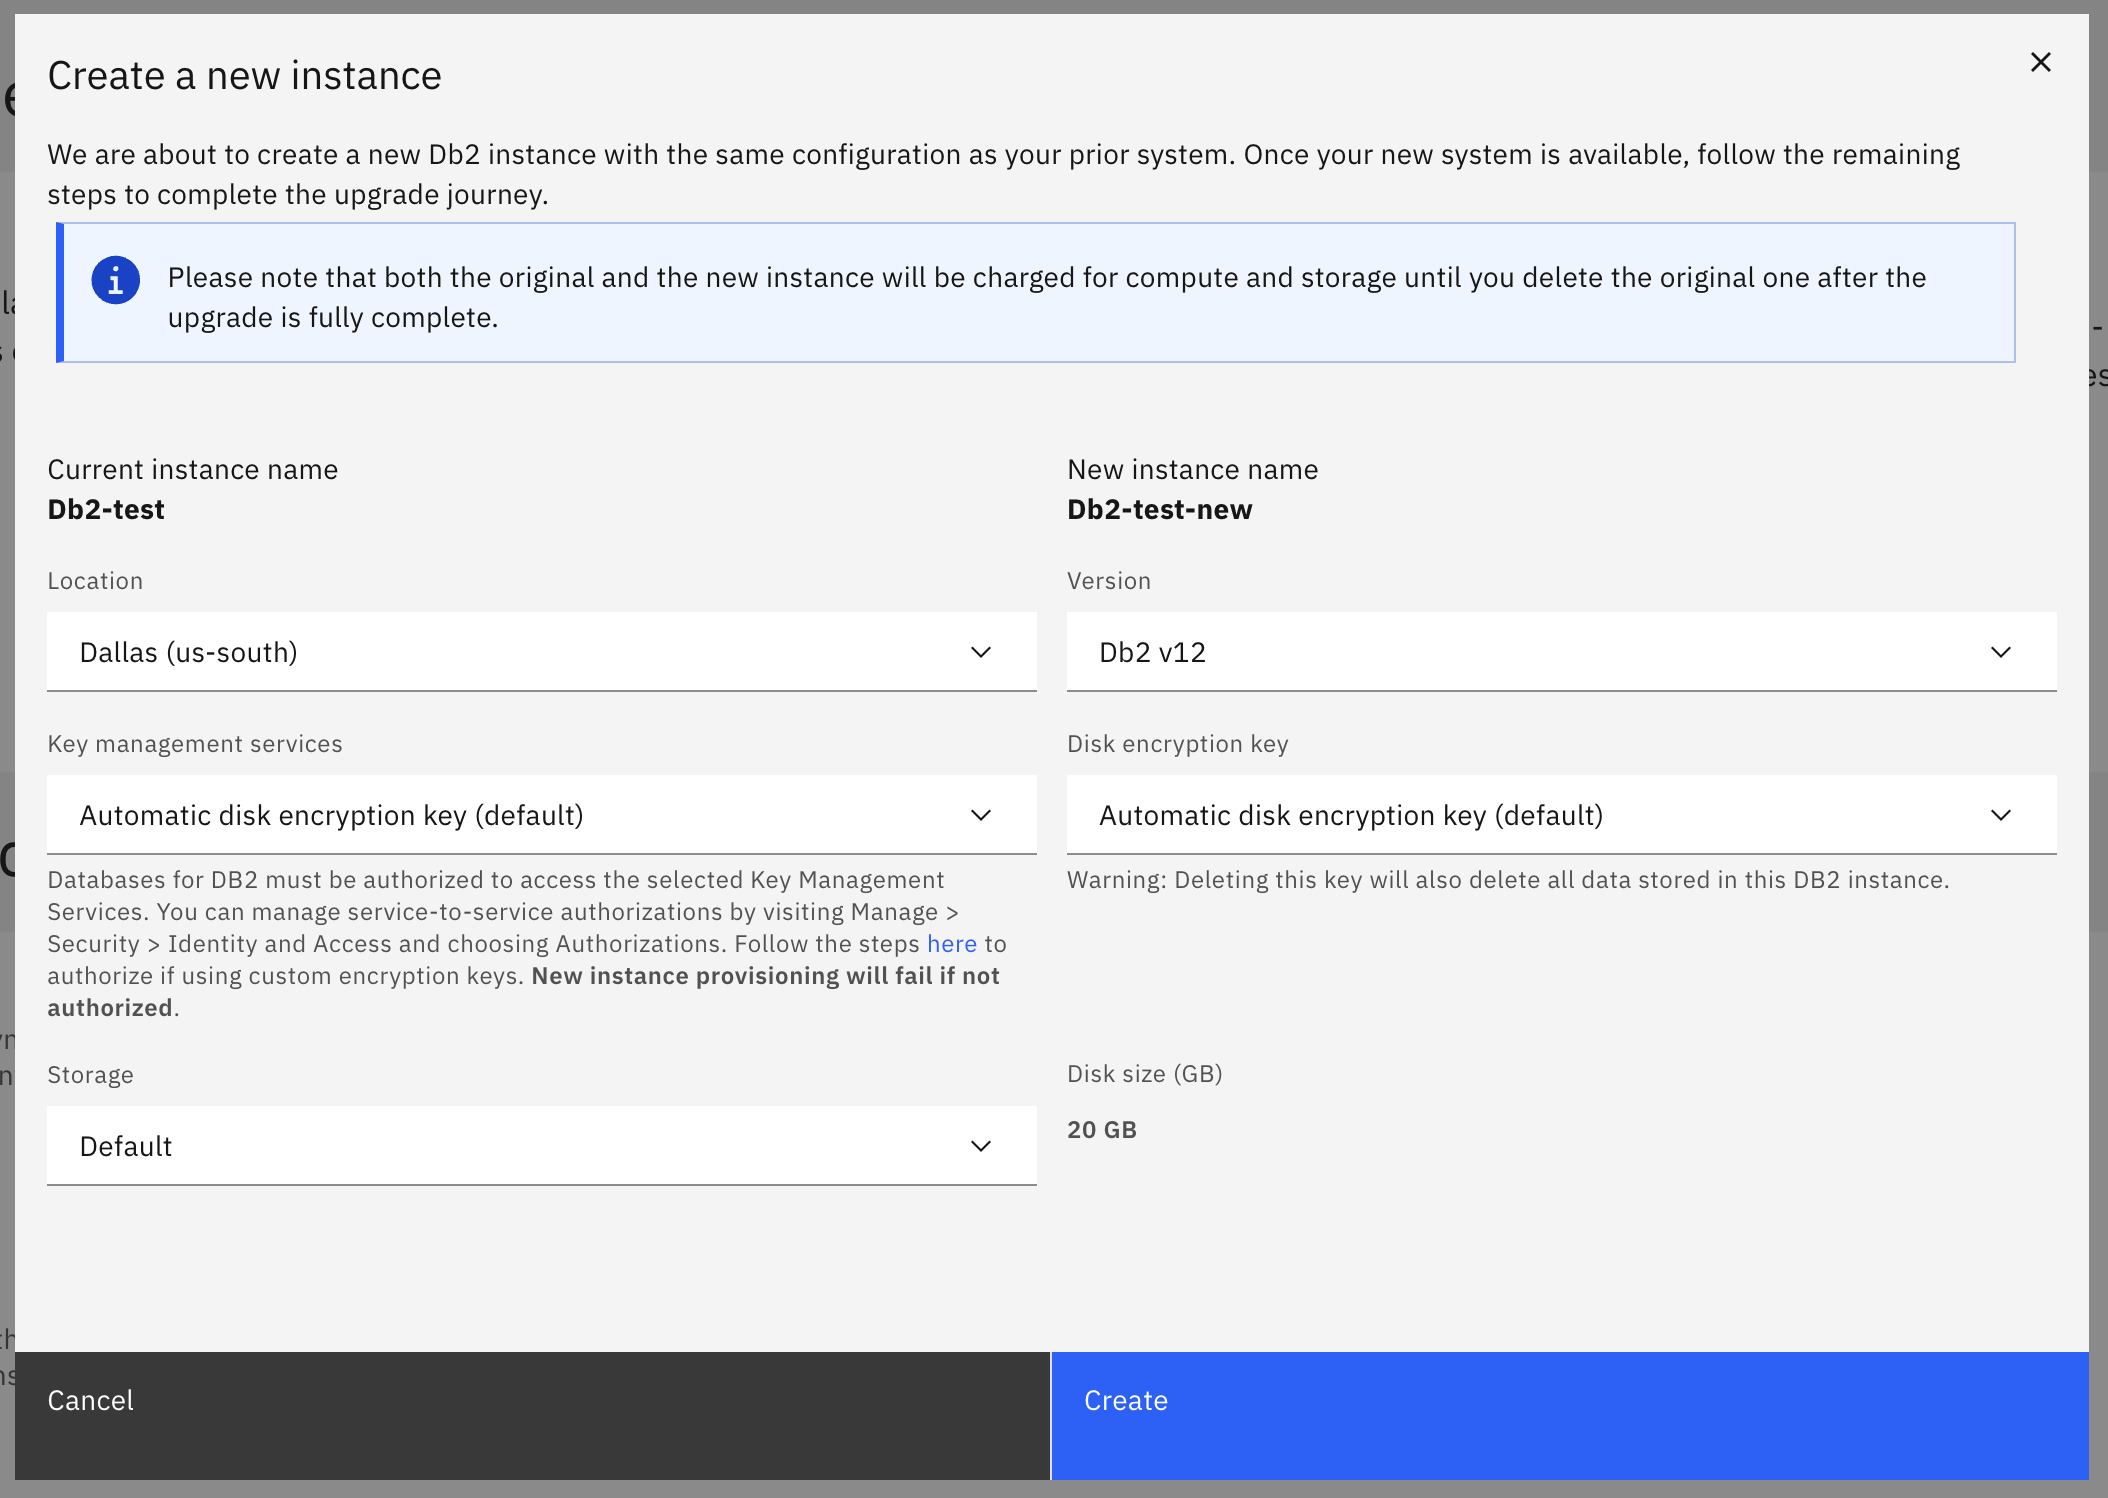
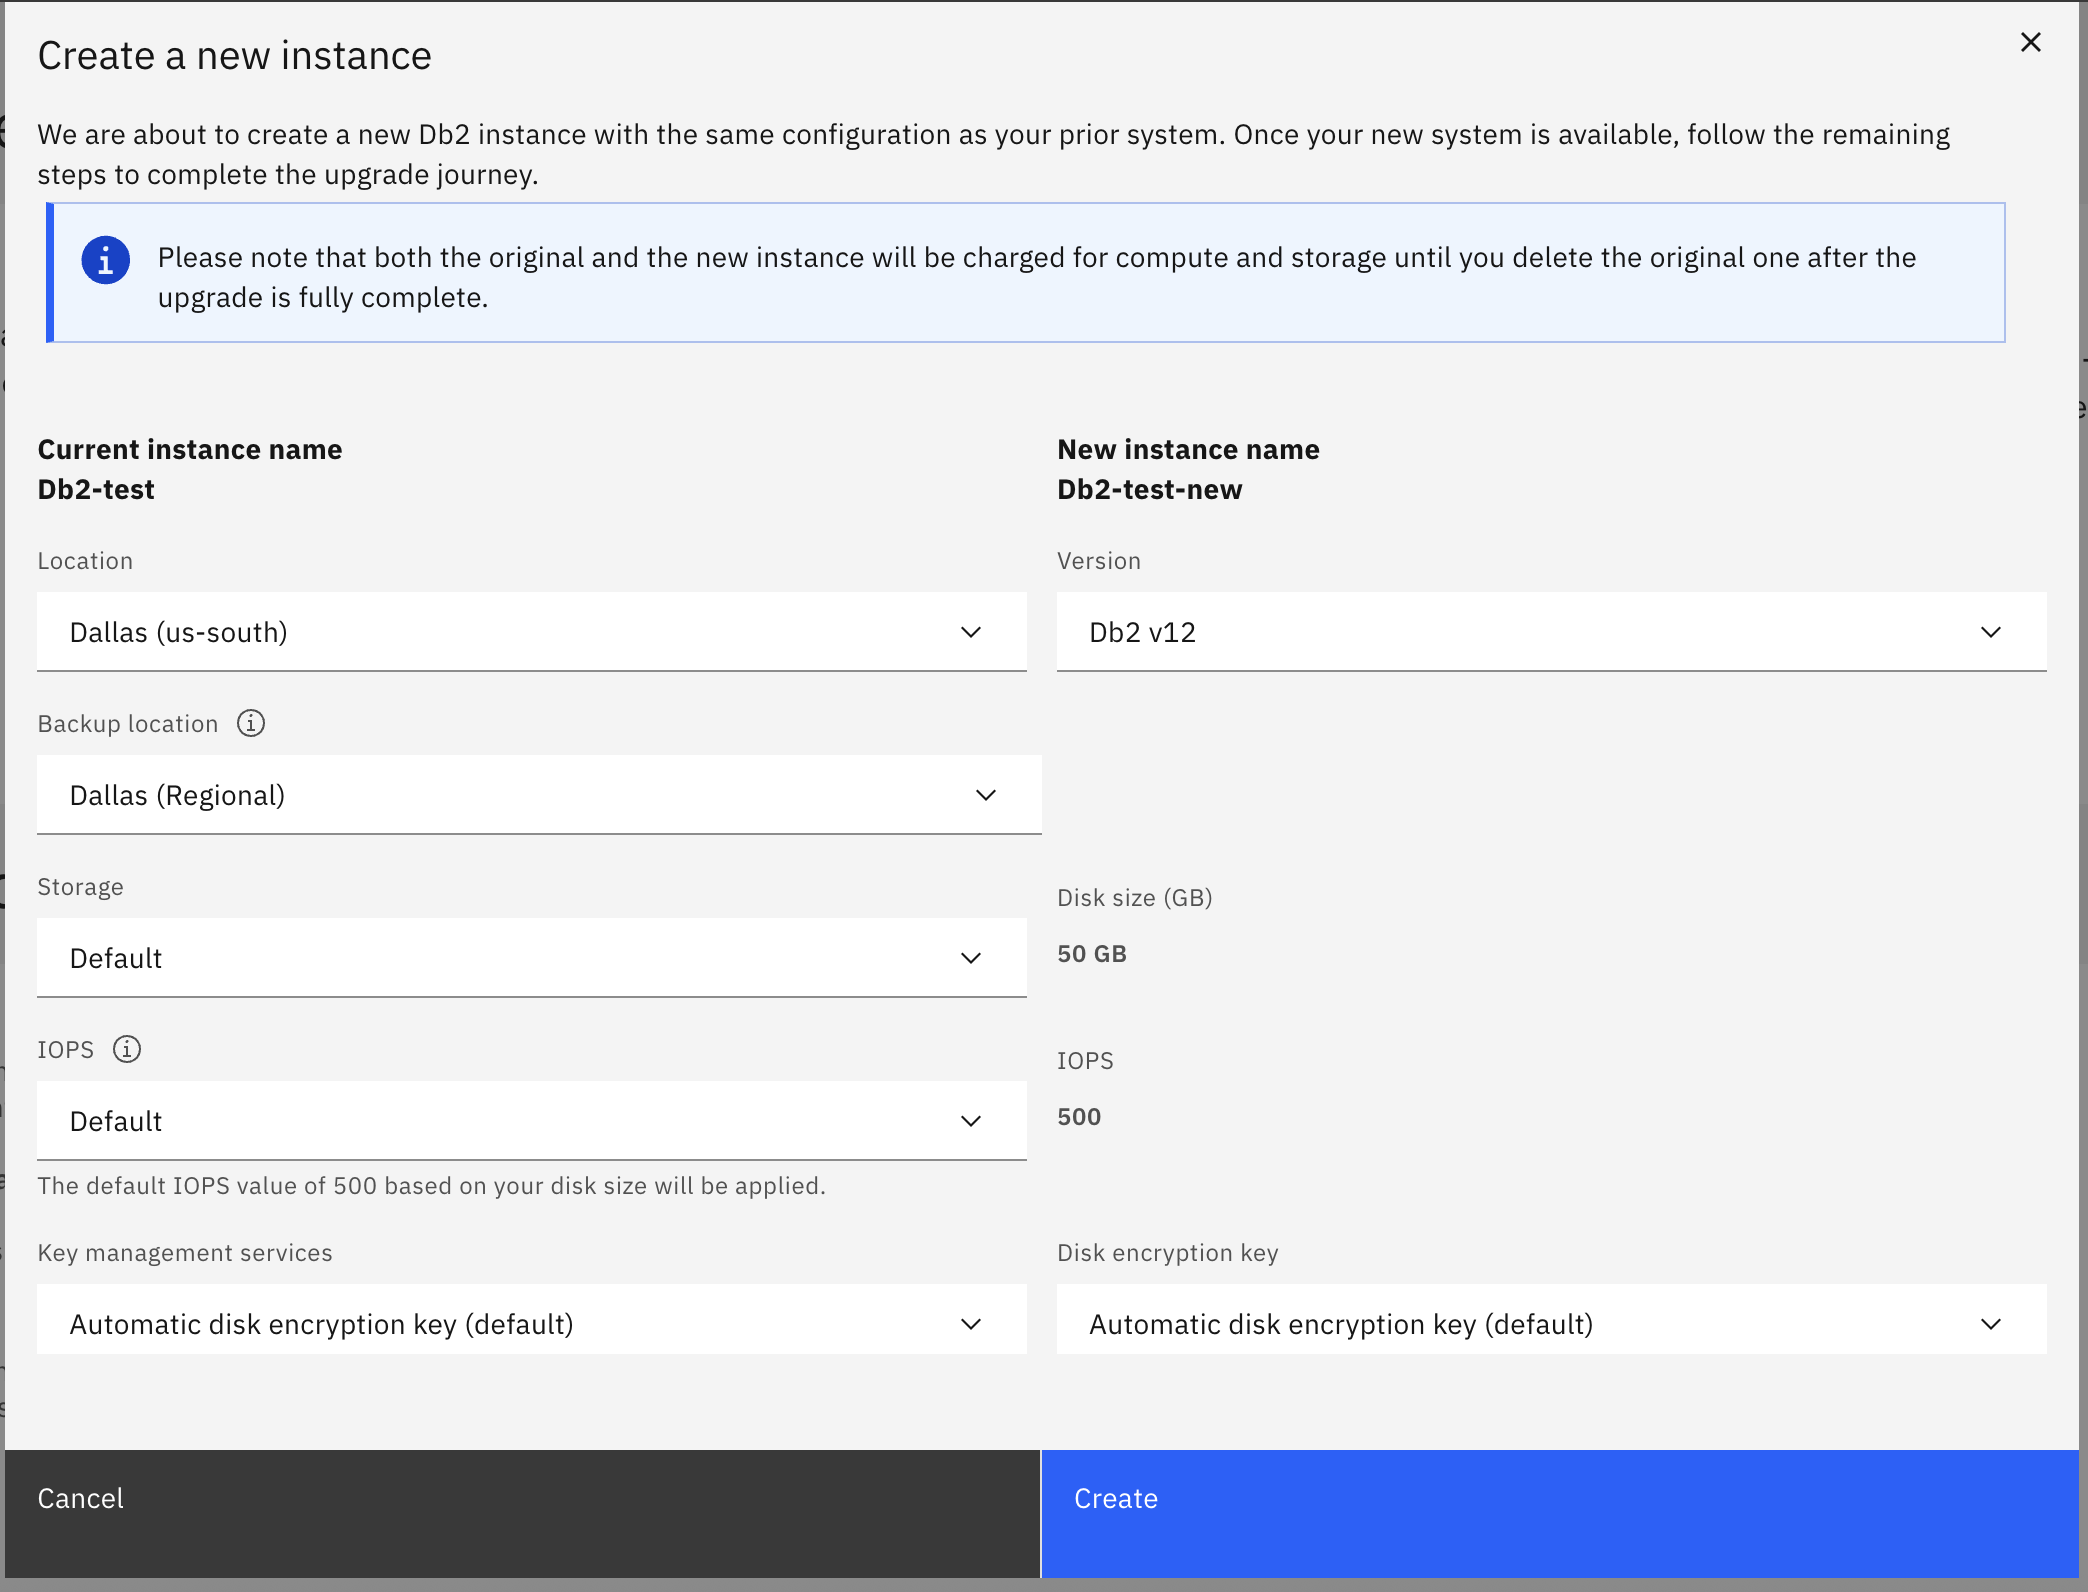
Update: 04-06-2026

diff --git a/migration_setup.md b/migration_setup.md
@@ -1,7 +1,7 @@
 ---
 copyright:
   years: 2026
-lastupdated: "2026-05-12"
+lastupdated: "2026-06-04"
 
 keywords:
 
@@ -57,7 +57,7 @@ Follow these steps to begin the migration:
 1. You will be redirected to the **Upgrade Db2 Systems** page. In the upgrade interface, click **Create Instance**.
 ![Upgrade Db2 Systems page example](images/migration_create_new_instance.png){: caption="Example of the Upgrade Db2 Systems page where you create the new instance." caption-side="bottom"}
 
-1. A popup will show with the current and new instance names. Select the location, Db2 version, key management services, and disk encryption key for your new instance. Click **Create** to start provisioning your new upgraded environment.
+1. A popup will show with the current and new instance names. Select the location, Db2 version, backup location, storage, IOPS, key management services, and disk encryption key for your new instance. Click **Create** to start provisioning your new upgraded environment.
 ![Create Instance Confirm](images/migration_create_confirm.png){: caption="Confirm location and create new instance." caption-side="bottom"}
 
    When using Key Protect Dedicated (Single-tenant), you must select **Regional** as the backup location.